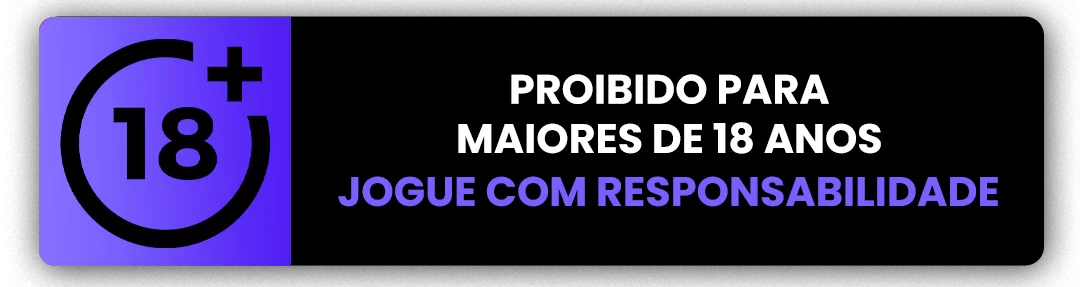
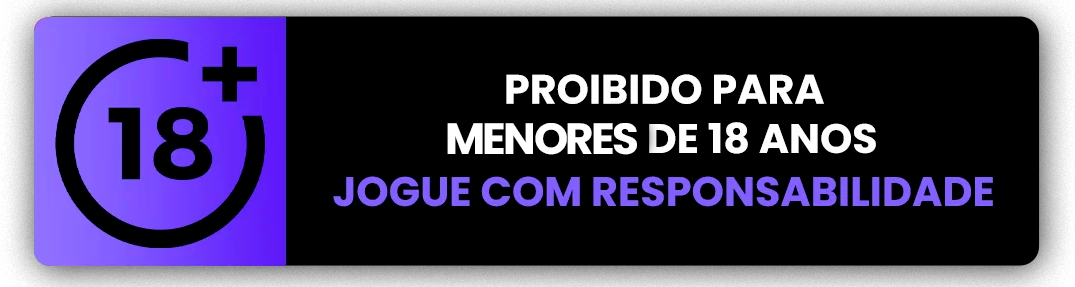
LUISA

diff --git a/src/Acessoliberado.css b/src/Acessoliberado.css
@@ -1,0 +1,252 @@
+/* PÁGINA ACESSO LIBERADO */
+
+.acesso-page {
+  width: 100%;
+  min-height: 100vh;
+  background: #fff;
+}
+
+/* FAIXA ROXA EM CIMA */
+.faixa-header {
+  width: 100%;
+  background: linear-gradient(135deg, #7c3aed 0%, #a855f7 100%);
+  padding: 30px 20px;
+  text-align: center;
+  box-shadow: 0 4px 15px rgba(124, 58, 237, 0.3);
+}
+
+.faixa-titulo {
+  font-size: 28px;
+  color: white;
+  font-weight: 800;
+  margin: 0;
+  letter-spacing: 1px;
+  animation: slideDown 0.6s ease;
+}
+
+@keyframes slideDown {
+  from {
+    opacity: 0;
+    transform: translateY(-30px);
+  }
+  to {
+    opacity: 1;
+    transform: translateY(0);
+  }
+}
+
+/* CONTAINER PRINCIPAL */
+.acesso-container {
+  position: relative;
+  width: 100%;
+  min-height: calc(100vh - 120px);
+  display: flex;
+  align-items: center;
+  justify-content: center;
+  overflow: hidden;
+}
+
+/* BACKGROUND COM IMAGEM */
+.acesso-background {
+  position: absolute;
+  top: 0;
+  left: 0;
+  width: 100%;
+  background-size: cover;
+  background-position: center;
+  background-repeat: no-repeat;
+  z-index: 0;
+}
+
+.acesso-container {
+  position: relative;
+  width: 100%;
+  min-height: calc(100vh - 120px);
+  display: flex;
+  align-items: center;
+  justify-content: flex-start;
+  overflow: hidden;
+  padding-left: 80px; /* afasta da borda esquerda */
+  box-sizing: border-box;
+}
+
+/* CONTEÚDO PRINCIPAL */
+
+.acesso-content {
+  display: flex;
+  flex-direction: column;
+  align-items: flex-start;
+  justify-content: center;
+  padding: 40px;
+  box-sizing: border-box;
+  gap: 0;
+  width: 500px; /* largura fixa */
+  min-height: unset; /* remove o 100vh que tava puxando pra baixo */
+  border-radius: 12px;
+}
+
+/* LADO ESQUERDO */
+.acesso-left {
+  display: flex;
+  flex-direction: column;
+  align-items: center;
+  gap: 30px;
+}
+
+.acesso-logo {
+  width: 200px;
+  height: auto;
+  index: 3;
+  animation: fadeInScale 0.8s ease;
+}
+
+@keyframes fadeInScale {
+  from {
+    opacity: 0;
+    transform: scale(0.8);
+  }
+  to {
+    opacity: 1;
+    transform: scale(1);
+  }
+}
+
+.acesso-info {
+  display: flex;
+  flex-direction: column;
+  gap: 20px;
+  width: 100%;
+}
+
+.acesso-main-titulo {
+  font-size: 26px;
+  color: white;
+  font-weight: 700;
+  line-height: 1.4;
+  margin: 0;
+  animation: slideInLeft 0.8s ease 0.2s both;
+}
+
+@keyframes slideInLeft {
+  from {
+    opacity: 0;
+    transform: translateX(-40px);
+  }
+  to {
+    opacity: 1;
+    transform: translateX(0);
+  }
+}
+
+.acesso-botao {
+  background: linear-gradient(135deg, #7c3aed 0%, #a855f7 100%);
+  color: white;
+  padding: 16px 40px;
+  border: none;
+  border-radius: 12px;
+  font-size: 16px;
+  font-weight: 700;
+  cursor: pointer;
+  transition: all 0.3s ease;
+  box-shadow: 0 4px 15px rgba(124, 58, 237, 0.4);
+  animation: slideInLeft 0.8s ease 0.4s both;
+}
+
+.acesso-botao:hover {
+  transform: translateY(-3px);
+  box-shadow: 0 8px 25px rgba(124, 58, 237, 0.6);
+}
+
+.acesso-botao:active {
+  transform: translateY(-1px);
+}
+
+.acesso-subtitulo {
+  font-size: 16px;
+  color: rgba(255, 255, 255, 0.9);
+  line-height: 1.6;
+  margin: 0;
+  animation: slideInLeft 0.8s ease 0.6s both;
+}
+
+/* LADO DIREITO */
+.acesso-right {
+  display: flex;
+  align-items: center;
+  justify-content: center;
+  min-height: 400px;
+}
+
+/* RESPONSIVO - MOBILE */
+@media (max-width: 768px) {
+  .acesso-background {
+    background-image: url('/acesso/acesso-mobile.png');
+    background-size: cover;
+    background-position: center;
+  }
+
+  .acesso-content {
+    grid-template-columns: 1fr;
+    gap: 30px;
+    padding: 20px;
+    margin: 20px;
+  }
+
+  .faixa-titulo {
+    font-size: 20px;
+  }
+
+  .acesso-logo {
+    width: 150px;
+  }
+
+  .acesso-main-titulo {
+    font-size: 20px;
+  }
+
+  .acesso-botao {
+    padding: 14px 30px;
+    font-size: 14px;
+  }
+
+  .acesso-subtitulo {
+    font-size: 14px;
+  }
+
+  .acesso-right {
+    min-height: 250px;
+  }
+}
+
+/* RESPONSIVO - EXTRA PEQUENO */
+@media (max-width: 480px) {
+  .faixa-header {
+    padding: 20px 15px;
+  }
+
+  .faixa-titulo {
+    font-size: 18px;
+  }
+
+  .acesso-content {
+    padding: 15px;
+    margin: 15px;
+  }
+
+  .acesso-logo {
+    width: 120px;
+  }
+
+  .acesso-main-titulo {
+    font-size: 18px;
+  }
+
+  .acesso-botao {
+    padding: 12px 25px;
+    font-size: 13px;
+  }
+
+  .acesso-subtitulo {
+    font-size: 13px;
+  }
+}

diff --git a/src/acessoliberado.jsx b/src/acessoliberado.jsx
@@ -1,0 +1,48 @@
+import './Acessoliberado.css'
+
+function AcessoLiberado() {
+  return (
+    <div className="acesso-page">
+
+      <div className="faixa-header">
+        <h1 className="faixa-titulo">90% DAS VAGAS ESGOTADAS!</h1>
+      </div>
+
+      <div className="acesso-container">
+        <img
+        src= "/acesso/acesso-desktop.png"
+        className="acesso-background"
+         />
+        <div className="acesso-content">
+          {/* LADO ESQUERDO - LOGO E INFORMAÇÕES */}
+          <div className="acesso-left">
+            <img 
+            src="/logo/logo.png" 
+              alt="Logo Luisa" 
+              className="acesso-logo"
+            />
+
+            <div className="acesso-info">
+              <h2 className="acesso-main-titulo">
+                Se você quer consistência, aqui está o primeiro passo.
+              </h2>
+
+              <button className="acesso-botao">ACESSO LIBERADO</button>
+
+              <p className="acesso-subtitulo">
+                O grupo gratuito da Luisa Mendes mostra na prática como funciona uma mente profissional no mercado.
+              </p>
+            </div>
+          </div>
+
+          {/* LADO DIREITO - ESPAÇO PARA IMAGEM */}
+          <div className="acesso-right">
+            
+          </div>
+        </div>
+      </div>
+    </div>
+  )
+}
+
+export default AcessoLiberado

diff --git a/src/router.jsx b/src/router.jsx
@@ -1,12 +1,14 @@
 import { BrowserRouter, Routes, Route } from "react-router-dom";
 import App from "./App";
 import Entradas from "./Entradas";
+import Acessoliberado from "./Acessoliberado";
 
 export function Router() {
   return (
     <BrowserRouter>
       <Routes>
         <Route path="/entradas" element={<Entradas />} />
+        <Route path="/acessoliberado" element={<Acessoliberado />} />
         <Route path="/" element={<App />} />
       </Routes>
     </BrowserRouter>
